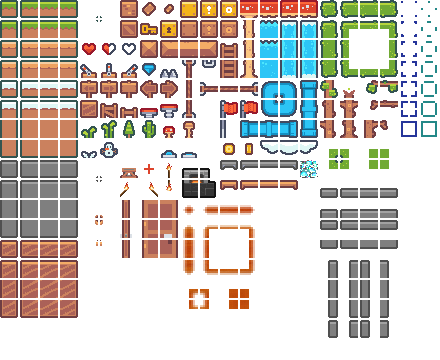
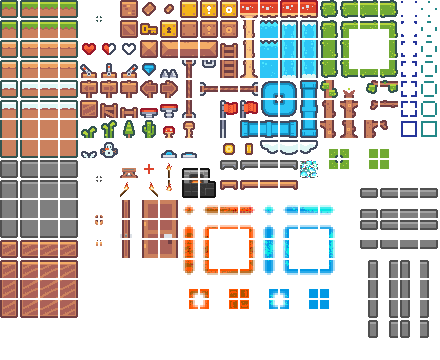
update

diff --git a/core/src/main/java/pama1234/gdx/game/state/state0001/game/region/block/workstation/Furnace.java b/core/src/main/java/pama1234/gdx/game/state/state0001/game/region/block/workstation/Furnace.java
@@ -3,18 +3,39 @@ package pama1234.gdx.game.state.state0001.game.region.block.workstation;
 import com.badlogic.gdx.graphics.g2d.TextureRegion;
 
 import pama1234.gdx.game.asset.ImageAsset;
+import pama1234.gdx.game.state.state0001.game.entity.entity0001.DroppedItem;
+import pama1234.gdx.game.state.state0001.game.item.CraftRecipe;
+import pama1234.gdx.game.state.state0001.game.item.CraftRecipe.CraftItem;
 import pama1234.gdx.game.state.state0001.game.item.DisplaySlot;
+import pama1234.gdx.game.state.state0001.game.item.Inventory;
+import pama1234.gdx.game.state.state0001.game.item.Item.ItemSlot;
+import pama1234.gdx.game.state.state0001.game.item.MeltRecipe;
 import pama1234.gdx.game.state.state0001.game.metainfo.MetaBlock;
 import pama1234.gdx.game.state.state0001.game.metainfo.info0001.center.MetaBlockCenter0001;
+import pama1234.gdx.game.state.state0001.game.metainfo.info0001.center.MetaItemCenter0001;
 import pama1234.gdx.game.state.state0001.game.region.block.Block;
 import pama1234.gdx.game.state.state0001.game.region.block.Block.BlockUi;
+import pama1234.gdx.game.state.state0001.game.world.World0001;
+import pama1234.gdx.game.ui.generator.UiGenerator;
 import pama1234.gdx.game.ui.util.TextButtonCam;
+import pama1234.math.Tools;
 
 public class Furnace extends MetaBlock{
+  // public static final int stepMod=2,stopMod=1,updateMod=0;
+  public int outputSlotSize=1,sloatSize=2;
+  public MeltRecipe[] recipeList;
   public Furnace(MetaBlockCenter0001 pc,int id) {
     super(pc,"furnace",id,4,1,(in,type)-> {//change to me
       in.light.set(16);
-    },(in,type)-> {//change from me
+    },(in,type)-> {//change from me 
+      World0001 world=pc.pw;
+      int x=in.intData[4],y=in.intData[5];
+      boolean flag=Block.isEmpty(world.getBlock(x,y-1));
+      float randomConst=0.8f;
+      for(ItemSlot e:in.itemData) if(e.item!=null) DroppedItem.dropItem(world.p,x,y,world,flag,randomConst,e.item);
+      in.intData=null;
+      in.itemData=null;
+      in.ui=null;
     });
     blockType=stoneType;
     workStation=true;
@@ -33,14 +54,32 @@ public class Furnace extends MetaBlock{
     tiles[1]=tsrc[10][8];
     tiles[2]=tsrc[9][9];
     tiles[3]=tsrc[10][9];
+    //-----------------------------------------------------
+    MetaItemCenter0001 mi=pc.pw.metaItems;
+    recipeList=new MeltRecipe[] {
+      new MeltRecipe(60,new CraftItem[] {new CraftItem(mi.lightOre,4)},new CraftItem[] {new CraftItem(mi.lightIngot)}),
+    };
+    intData=new int[] {recipeList.length};
   }
   @Override
   public void initBlock(Block in) {
+    if(in.offBlock()) {
+      in.ui=new BlockUi();
+      in.ui.displaySlot=new DisplaySlot[0];
+      in.ui.camButton=new TextButtonCam[0];
+      return;
+    }
+    if(in.intData==null) in.intData=new int[6];
+    else if(in.intData.length<6) in.intData=new int[6];
+    if(in.itemData==null) {
+      in.itemData=new ItemSlot[sloatSize];
+      for(int i=0;i<in.itemData.length;i++) in.itemData[i]=new ItemSlot();
+    }
     in.ui=new BlockUi();
-    in.ui.displaySlot=new DisplaySlot[0];
-    // for(int i=0;i<in.ui.displaySlot.length;i++) in.ui.displaySlot[i]=new DisplaySlot(in.itemData[i]);
-    in.ui.camButton=new TextButtonCam[0];
-    // in.ui.camButton=UiGenerator.genButtons_0009(pc.pw.p,in);
+    in.ui.displaySlot=new DisplaySlot[in.itemData.length];
+    for(int i=0;i<in.ui.displaySlot.length;i++) in.ui.displaySlot[i]=new DisplaySlot(in.itemData[i]);
+    // in.ui.camButton=new TextButtonCam[0];
+    in.ui.camButton=UiGenerator.genButtons_0009(pc.pw.p,in);
     in.changed=true;
   }
   @Override
@@ -48,9 +87,55 @@ public class Furnace extends MetaBlock{
     itemDrop=new ItemDropAttr[] {new ItemDropAttr(pc.pw.metaItems.furnace,1)};
   }
   public void initLambda() {
+    updater=(world,in,x,y)-> {
+      lightUpdater.update(world,in,x,y);
+      if(in.offBlock()) return;
+      int tw=pc.pw.settings.blockWidth,
+        th=pc.pw.settings.blockHeight;
+      // int tx=(in.ui.displaySlot.length-1)/2*tw;
+      // in.intData[2]=(x-tx)*tw;
+      in.intData[4]=x;
+      in.intData[5]=y;
+      in.intData[2]=(x-2)*tw;
+      in.intData[3]=(y-3)*th;
+      if(in.intData[1]==Workbench.stopMod) return;
+      // Workbench.checkRecipe(in,recipeList[in.intData[0]],in.intData[1]);
+      // for(CraftRecipe e:recipeList) Workbench.checkRecipe(in,e,in.intData[1]);
+    };
     displayUpdater=(world,in,x,y)-> {
       defaultDisplayUpdater.update(world,in,x,y);
       in.displayType[0]=in.xOff+in.yOff*in.type.width;
+      if(in.offBlock()) return;
+      float tw=world.settings.blockWidth,
+        th=world.settings.blockHeight;
+      int length=in.ui.displaySlot.length;
+      float tx=(length-1)/2;
+      for(int i=0;i<length;i++) in.ui.displaySlot[i].update(
+        (x+i-tx)*tw,(y-1)*th);//TODO waste efficiency
+    };
+    displayer=(r,p,in,x,y)-> {
+      defaultBlockDisplayer.display(r,p,in,x,y);
+      if(in.offBlock()) return;
+      float tw=pc.pw.settings.blockWidth,
+        th=pc.pw.settings.blockHeight;
+      p.textScale(0.5f);
+      for(DisplaySlot e:in.ui.displaySlot) Inventory.displaySlot(p,e);
+      p.textScale(1);
+      // p.text(Integer.toString(in.intData[0]),x,y-tw*2);
+      int ti=in.intData[0];
+      String ts=Integer.toString(ti);
+      p.text(ts+")",x-tw*(1.5f+ts.length()/2f),y-th*2);
+      if(!Tools.inRangeInclude(ti,0,recipeList.length-1)) return;
+      p.text("<-",x,y-th*2);
+      CraftRecipe recipe=recipeList[ti];
+      p.tint(255,160);
+      p.textColor(255,160);
+      float i=-2;
+      for(CraftItem e:recipe.output) Workbench.drawItemWithCount(p,x+(i+=1)*tw,y-th*2,e.type,e.count);
+      i+=1;
+      for(CraftItem e:recipe.input) Workbench.drawItemWithCount(p,x+(i+=1)*tw,y-th*2,e.type,e.count);
+      p.noTint();
+      for(TextButtonCam<?> e:in.ui.camButton) e.display();
     };
   }
 }

diff --git a/core/src/main/java/pama1234/gdx/game/state/state0001/game/world/World0001.java b/core/src/main/java/pama1234/gdx/game/state/state0001/game/world/World0001.java
@@ -93,7 +93,7 @@ public class World0001 extends WorldBase2D{
     yourself.load();
     yourself.init();
     regions.load();
-    regions.refresh();
+    // regions.refresh();
     regions.startAllLoop();
     // }
   }
@@ -103,8 +103,8 @@ public class World0001 extends WorldBase2D{
     else p.cam2d.active(false);
     p.cam2d.scale.pos=yourself.ctrl.camScale;
     p.cam2d.scale.des=yourself.ctrl.camScale;
-    p.cam2d.minScale=0.25f;
-    // p.cam2d.minScale=p.isAndroid?0.25f:0.5f;
+    // p.cam2d.minScale=0.25f;
+    p.cam2d.minScale=p.isAndroid?0.25f:0.5f;
     p.cam2d.testScale();
     p.cam.point.pos.set(yourself.cx(),yourself.cy());
     p.cam.point.des.set(p.cam.point.pos);

diff --git a/core/src/main/java/pama1234/gdx/game/state/state0001/game/region/RegionGenerator.java b/core/src/main/java/pama1234/gdx/game/state/state0001/game/region/RegionGenerator.java
@@ -63,7 +63,7 @@ public class RegionGenerator{
           float posX=x(region.x,i,n),posY=y(region.y,j,m);
           float tx=posX/64f,ty=posY/64f;
           float random=noise.get(tx,ty);
-          if(random>0.9f) tb=new Block(world.metaBlocks.lightOre);
+          if(random>0.97f) tb=new Block(world.metaBlocks.lightOre);
           else if(random>0.6f) tb=new Block(world.metaBlocks.stone);
           else if(random>0.3f) tb=new Block(world.metaBlocks.dirt);
           else if(noise.get(tx,(posY+1)/64f)>0.3f&&rng.get(tx,ty)<0.1f) tb=new Block(world.metaBlocks.sapling);

diff --git a/core/src/main/java/pama1234/gdx/game/state/state0001/game/world/World0001Generator.java b/core/src/main/java/pama1234/gdx/game/state/state0001/game/world/World0001Generator.java
@@ -145,6 +145,11 @@ public class World0001Generator{
       in.tiles=new TextureRegion[1];
       in.tiles[0]=ImageAsset.items[7][0];
     }));
+    metaItems.list.add(metaItems.lightIngot=new MetaItem(metaItems,"light-ingot",metaItems.id(),in-> {
+      // in.blockType=pw.metaBlocks.chest;
+      in.tiles=new TextureRegion[1];
+      in.tiles[0]=ImageAsset.items[7][1];
+    }));
     return metaItems;
   }
   public static MetaCreatureCenter0001 createCreatureC(World0001 in) {

diff --git a/core/src/main/java/pama1234/gdx/game/state/state0001/game/metainfo/info0001/center/MetaItemCenter0001.java b/core/src/main/java/pama1234/gdx/game/state/state0001/game/metainfo/info0001/center/MetaItemCenter0001.java
@@ -12,7 +12,8 @@ public class MetaItemCenter0001 extends MetaItemCenter{
   public MetaItem dirt,stone,
     log,branch,leaf,workbench,
     stonePickaxe,stoneAxe,stoneChisel,stoneSword,
-    sapling,torch,woodPlank,woodPlatform,furnace,door,chest,lightOre;
+    sapling,torch,woodPlank,woodPlatform,furnace,door,chest,
+    lightOre,lightIngot;
   public MetaItemCenter0001(World0001 pw) {
     this.pw=pw;
     idg=new IDGenerator();

diff --git a/core/src/main/java/pama1234/gdx/game/state/state0001/game/world/RegionWrapper.java b/core/src/main/java/pama1234/gdx/game/state/state0001/game/world/RegionWrapper.java
@@ -66,8 +66,8 @@ public class RegionWrapper{
         Block blockOff=pw.getBlock(tx,ty);
         testAndRemoveOffBlock(blockOff.type,tx,ty,in);
         blockOff.doItemDrop(pw.p,tx,ty,in.empty);
-        blockOff.type(in);
         blockOff.origin(block,i,j);
+        blockOff.type(in);
       }
     }
   }

diff --git a/core/src/main/java/pama1234/gdx/game/state/state0001/game/item/MeltRecipe.java b/core/src/main/java/pama1234/gdx/game/state/state0001/game/item/MeltRecipe.java
@@ -1,0 +1,9 @@
+package pama1234.gdx.game.state.state0001.game.item;
+
+public class MeltRecipe extends CraftRecipe{
+  public int time;
+  public MeltRecipe(int time,CraftItem[] input,CraftItem[] output) {
+    super(input,output);
+    this.time=time;
+  }
+}

diff --git a/core/src/main/java/pama1234/gdx/game/state/state0001/game/region/block/Block.java b/core/src/main/java/pama1234/gdx/game/state/state0001/game/region/block/Block.java
@@ -118,4 +118,7 @@ public class Block{
     xOff=xIn;
     yOff=yIn;
   }
+  public boolean offBlock() {
+    return xOff!=0||yOff!=0;
+  }
 }
